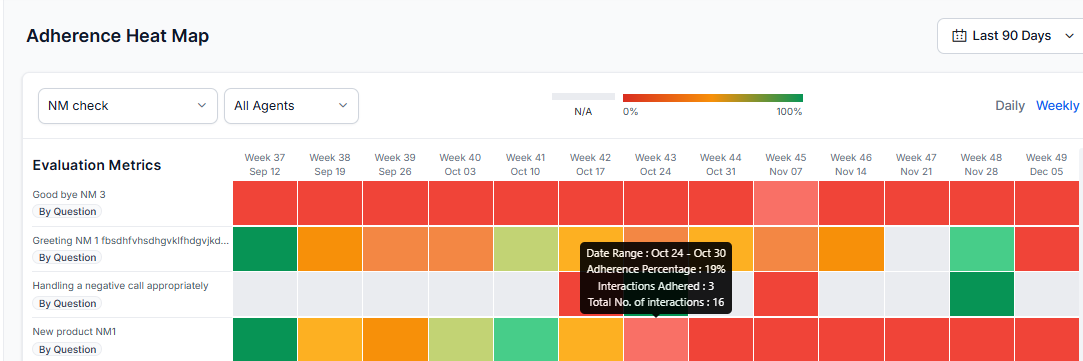
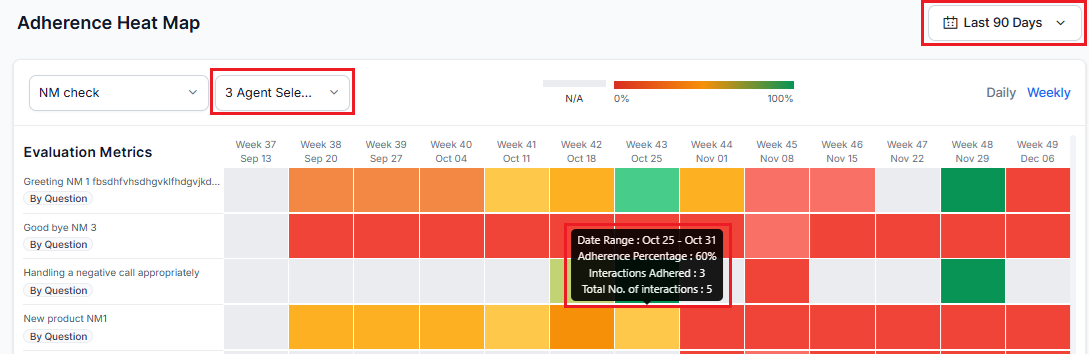
Image updated

diff --git a/docs/xo/quality-management/configure/agent-scorecards.md b/docs/xo/quality-management/configure/agent-scorecards.md
@@ -4,7 +4,7 @@ Agent Scorecards facilitate the development of evaluation criteria at the indivi
 
 !!! note
 
-    To view **Agent Scorecards** and **Agent Attributes**, you must have to enable the **Agent Scorecards** toggle view in the **Settings** of Quality Management.
+    To view **Agent Scorecards** and **Agent Attributes**, you must have to enable the **Agent Scorecards** toggle view in the **Settings** of Quality AI.
 
 A Supervisor has the following types of permissions for the agent scorecards:
 
@@ -12,7 +12,7 @@ A Supervisor has the following types of permissions for the agent scorecards:
 * No access, to edit, and create agent scorecards and attributes
 * Only view access for the existing agent scorecards and attributes.
 
-You can view Agent Scorecards by navigating to **Contact Center AI** > **Quality Management** > **Configure** > **Agent Score Cards**.  
+You can view Agent Scorecards by navigating to **Contact Center AI** > **Quality AI** > **Configure** > **Agent Score Cards**.  
 <img src="../agent-scorecards/images/agent-scorecard-landing-page.png" alt="Agent Score Card" title="Agent Score Card" style="border: 1px solid gray; zoom:70%;">
 
 ## Create a New Agent Scorecard
@@ -96,10 +96,10 @@ Steps to edit or update the agent scorecard:
     <img src="../agent-scorecards/images/vertical-elipsis-edit-button.png" alt="Vertical Ellipse Edit Button" title="Vertical Ellipse Edit Button" style="border: 1px solid gray; zoom:70%;"> 
 
 2. Click **Edit** to update the existing agent scorecard details.  
-   <img src="../agent-scorecards/images/edit-agent-scorecard.png" alt="Quality Management Dashboard" title="Quality Management Dashboard" style="border: 1px solid gray; zoom:70%;"> 
+   <img src="../agent-scorecards/images/edit-agent-scorecard.png" alt="Quality AI Dashboard" title="Quality AI Dashboard" style="border: 1px solid gray; zoom:70%;"> 
 
 3. Modify the required details in the **Settings**,  **Agent Attributes**, and **Assignments**.  
-   <img src="../agent-scorecards/images/update-agent-scorecard.png" alt="Quality Management Dashboard" title="Quality Management Dashboard" style="border: 1px solid gray; zoom:70%;"> 
+   <img src="../agent-scorecards/images/update-agent-scorecard.png" alt="Quality AI Dashboard" title="Quality AI Dashboard" style="border: 1px solid gray; zoom:70%;"> 
 
 !!! Note 
 
@@ -127,7 +127,7 @@ Steps to delete the agent scorecard:
 
 This feature enables the creation of agent attributes by combining existing evaluation metrics. This calculates the Agent Attribute Score using data from evaluation metric results. Agent attributes are specific areas of performance relevant to an agent's role like Professionalism, Product Knowledge, Problem-solving skills, and Customer service skills. 
 
-Users can view **Agent Attributes** by navigating to **Contact Center AI** > **Quality Management** > **Configure** > **Agent Attributes**. 
+Users can view **Agent Attributes** by navigating to **Contact Center AI** > **Quality AI** > **Configure** > **Agent Attributes**. 
 <img src="../agent-scorecards/images/agent-attributes-default-screen.png" alt="Agent Attributes" title="Agent Attributes" style="border: 1px solid gray; zoom:70%;"> 
 
 ## Create a New Agent Attribute
@@ -138,7 +138,7 @@ Steps to create **New Agent Attribute**:
     <img src="../agent-scorecards/images/new-agent-attribute1.png" alt="New Agent Attribute" title="New Agent Attribute" style="border: 1px solid gray; zoom:70%;">
 
 2. Upon clicking the **+New Agent Attribute**, the following **Add New Agent Attribute** screen appears.   
-<img src="../agent-scorecards/images/add-new-agent-attribute.png" alt="Quality Management Dashboard" title="Quality Management Dashboard" style="border: 1px solid gray; zoom:70%;"> 
+<img src="../agent-scorecards/images/add-new-agent-attribute.png" alt="Add New Agent Attribute" title="Add New Agent Attribute" style="border: 1px solid gray; zoom:70%;"> 
 
     * In the **Name** field, enter the name of the agent attribute.
     * Enter a short **Description** (optional) for the newly created agent attribute.
@@ -160,10 +160,10 @@ The Agent Attributes include the following:
 Steps to edit or update the agent attributes:
 
 1. Select any of the agent attributes, and right-click on the vertical ellipse button. The following screen appears.  
-    <img src="../agent-scorecards/images/edit-attribute-list.png" alt="Quality Management Dashboard" title="Quality Management Dashboard" style="border: 1px solid gray; zoom:70%;">   
+    <img src="../agent-scorecards/images/edit-attribute-list.png" alt="Edit Agent Attribute" title="Edit Agent Attribute" style="border: 1px solid gray; zoom:70%;">   
 
 2. Click **Edit**. The following screen appears to update existing agent attribute details.  
-    <img src="../agent-scorecards/images/edit-attribute-option.png" alt="Quality Management Dashboard" title="Quality Management Dashboard" style="border: 1px solid gray; zoom:70%;"> 
+    <img src="../agent-scorecards/images/edit-attribute-option.png" alt="Edit" title="Edit" style="border: 1px solid gray; zoom:70%;"> 
 
 3. Modify the required field details in the **Add Evaluation Metrics**.
 4. Click **Update** to assign and update the evaluation metrics that will service this new attribute added.
@@ -173,10 +173,10 @@ Steps to edit or update the agent attributes:
 Steps to delete the agent scorecard:
 
 1. Select any of the agent attributes, and right-click on the vertical ellipse button. The following screen appears.  
-    <img src="../agent-scorecards/images/edit-attribute-list.png" alt="Quality Management Dashboard" title="Quality Management Dashboard" style="border: 1px solid gray; zoom:70%;"> 
+    <img src="../agent-scorecards/images/edit-attribute-list.png" alt="Delete Agent Attribute" title="Delete Agent Attribute" style="border: 1px solid gray; zoom:70%;"> 
     
 2. Click **Delete**. The following warning popup window appears.  
-    <img src="../agent-scorecards/images/delete-agent-attribute.png" alt="Quality Management Dashboard" title="Quality Management Dashboard" style="border: 1px solid gray; zoom:70%;"> 
+    <img src="../agent-scorecards/images/delete-agent-attribute.png" alt="Delete" title="Delete" style="border: 1px solid gray; zoom:70%;"> 
 
     !!! note
             

diff --git a/docs/xo/quality-management/configure/settings.md b/docs/xo/quality-management/configure/settings.md
@@ -5,13 +5,13 @@ The Settings allow you to make app-level changes to Conversation Intelligence.
 The Settings has the following two sections:
 
 * Conversation Intelligence
-* Quality Management
+* Quality AI
 
 ## Conversation Intelligence
 
 This extracts valuable insights from customer interactions across various communication channels. It captures information from spoken and written conversations, matches the information with structured metadata about the interaction, and analyzes emotions and feelings to understand customers' desires, needs, opinions, and expectations.
 
-You can access the **Conversation Intelligence** by navigating to **Contact Center AI** > **Quality Management** > **Configure** > **Settings** > **Conversation Intelligence**.
+You can access the **Conversation Intelligence** by navigating to **Contact Center AI** > **Quality AI** > **Configure** > **Settings** > **Conversation Intelligence**.
 
 <img src="../settings/images/default-settings.png" alt="Settings" title="Settings" style="border: 1px solid gray; zoom:80%;">
 
@@ -78,11 +78,11 @@ Steps to enable the Script Adherence Configuration:
 
         * In the Script adherence configuration, the agent can visualize the specific messages or scripts that are defined by the supervisor or app owner or administrator.  
 
-## Quality Management
+## Quality AI
 
 The App owners can use the Settings option under QM to enable or disable auto QA scoring of interactions and at an app level. Users with relevant permissions can enable and create bookmarks to collect interactions in different bookmarks for easy future reference.
 
-Yoc can access the **Quality Management** by navigating to **Contact Center AI** > **Quality Management** > **Configure** > **Settings** > **Quality Management**.  
+Yoc can access the **Quality AI** by navigating to **Contact Center AI** > **Quality AI** > **Configure** > **Settings** > **Quality AI**.  
 <img src="../settings/images/qm-setting.png" alt="QM Settings" title="QM Settings" style="border: 1px solid gray; zoom:60%;">
 
 The QA has the following sections:
@@ -139,7 +139,7 @@ This setting allows you to enable or disable agent-level interaction scoring thr
 #### Enable Agent Score Card
 
 Steps to enable the Agent Score Card:  
-1. Expand the **Quality Management** collapse icon to view the **Agent Score Card**.   
+1. Expand the **Quality AI** collapse icon to view the **Agent Score Card**.   
 <img src="../settings/images/sett-agent-scorecard.png" alt="Auto QA" title="Auto QA" style="border: 1px solid gray; zoom:60%;">
 
 2. Enable the **Agent Score Card** option.
@@ -165,7 +165,7 @@ This feature lets you bookmark interactions into various collections for future 
 #### Enable Bookmarks
 Steps to Add Bookmarks:
 
-1. Expand the **Quality Management** collapse icon to view the following **Bookmarks** option.  
+1. Expand the **Quality AI** collapse icon to view the following **Bookmarks** option.  
 <img src="../settings/images/settings-bookmarks.png" alt="Bookmark" title="Bookmark" style="border: 1px solid gray; zoom:70%;">
 
 2. Enable the **Bookmarks** toggle option to add a new bookmark.

diff --git a/docs/xo/quality-management/analyze/adherence-heatmap.md b/docs/xo/quality-management/analyze/adherence-heatmap.md
@@ -30,6 +30,7 @@ This outlines how adherence metrics are displayed and calculated for a selected 
 
     * For static metrics (by question), the metric applies to all terminated or failed interactions in the respective queue (form).
     * For dynamic metrics (by question), the metric applies only when the relevant trigger is detected; if the trigger is missing, the metric is not applicable.
+
 * **Color Coding & Display** 
 
     This displays the heatmap tile (box) color based on the calculated adherence %.
@@ -92,8 +93,13 @@ This describes the functionality of a heatmap interface for tracking agent adher
 <img src="../adher-heatmap/images/click-through.png" alt="Agent Leaderboard" title="Agent Leaderboard" style="border: 1px solid gray; zoom:100%;"> 
 
 The clickable date range tiles (each box is a metric) display the interactions for the selected agents, showing the following metrics for each date:  
+
 * **Adherence Display**: Adherence percentages are shown within colored boxes, with color matching the heatmap’s color scheme. You can sort the adherence column by percentage, defaulting to the least adherence first. 
-* **Heatmap Interaction**: Click a date range tile (box) in the heatmap to open a window that displays agent-wise adherence for the selected metric, ordered from least to most adherence. This displays the count of adherence interactions.
+<img src="../adher-heatmap/images/adherence-percentage-column-sorting.png" alt="Adherence Display" title="Adherence Display" style="border: 1px solid gray; zoom:100%;"> 
+
+* **Heatmap Interaction**: Click a date range tile (box) in the heatmap to open a window that displays agent-wise adherence percentage for the selected metric, ordered from least to most adherence. This displays the percentage count of adherence interactions.
+<img src="../adher-heatmap/images/adherence-percentage-count.png" alt="Heatmap Interaction" title="Heatmap Interaction" style="border: 1px solid gray; zoom:100%;"> 
+
 * **View Interactions**: Click the **View Interactions** button, which directs you to the [Conversation Mining](https://docs.google.com/document/u/0/d/1Ushu0NJ27_Fml-1Iqgib-uVccol8jY0ZV4xdvJCnmDk/edit) page, where you can view all the agents' failed interactions. The applied filters (as **Unsaved**) include the evaluation metric name or metric used, queues, and metric qualification or the number of failed interactions (pass/fail).  
 <img src="../adher-heatmap/images/view-interactions-filters.png" alt="View Interactions" title="View Interactions" style="border: 1px solid gray; zoom:100%;"> 
 
